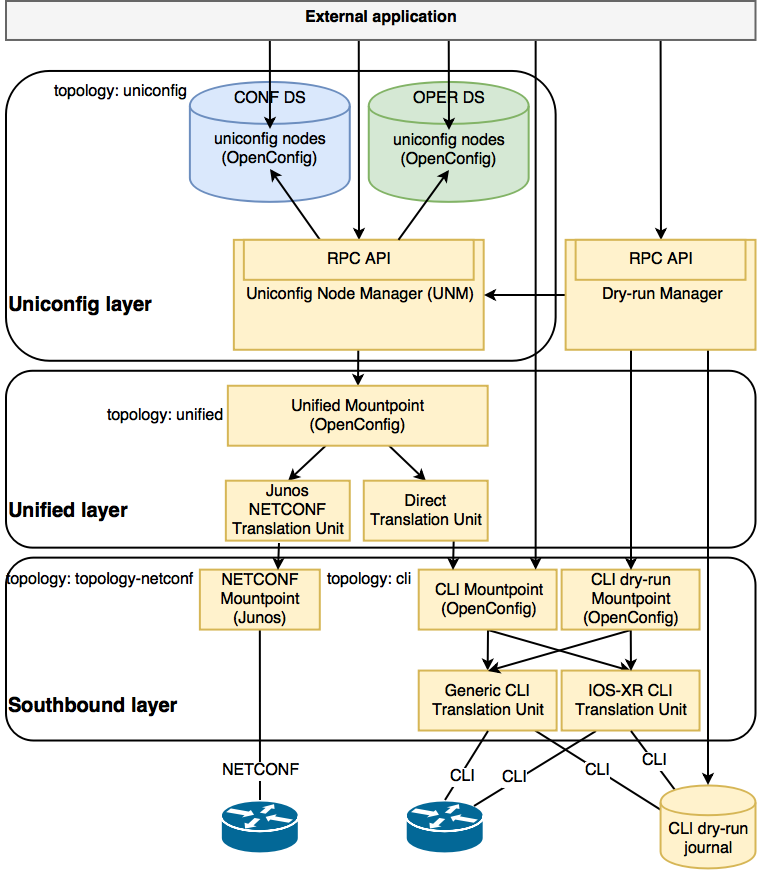
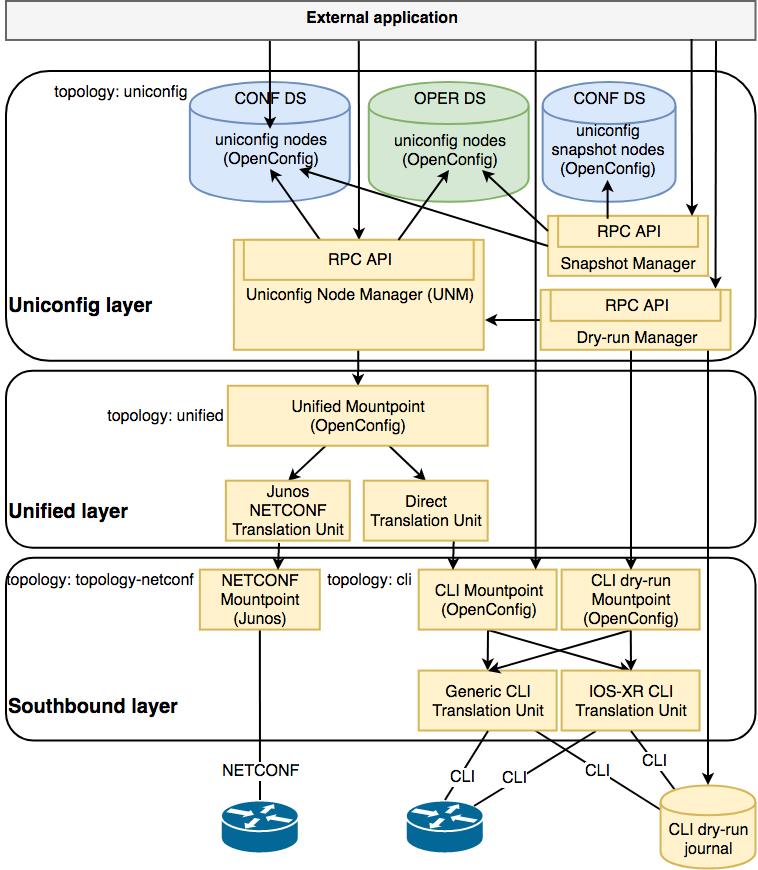
updated uniconfig architecture for 3.1.3

diff --git a/FRINX_ODL_Distribution/Carbon/FRINX_Features_User_Guide/uniconfig/architecture/architecture.md b/FRINX_ODL_Distribution/Carbon/FRINX_Features_User_Guide/uniconfig/architecture/architecture.md
@@ -12,6 +12,7 @@
         - [Direct Translation Unit](#direct-translation-unit)
         - [NETCONF Translation Unit](#netconf-translation-unit)
     - [Uniconfig Node Manager (UNM)](#uniconfig-node-manager-unm)
+    - [Snapshot Manager](#snapshot-manager)
     - [Dry-run Manager](#dry-run-manager)
 - [Components interactions](#components-interactions)
     - [NETCONF device configuration](#netconf-device-configuration)
@@ -64,27 +65,27 @@ Components are described from bottom to top.
 ## CLI Mountpoint
 The CLI mountpoint provides a management API for a network device over the CLI.
 OpenConfig models are used for structured data describing the device
-configuration and state.  
+configuration and state.
 
 The CLI mounpoint uses CLI translation units for translation between OpenConfig
-data and CLI data.  
+data and CLI data.
 
 The CLI mountpoint API supports device transactions and automatic
 rollback functionality (in case an error occurs during device configuration
 in device transaction). CLI mountpoint is registered under a node in cli
-topology.  
+topology.
 
 Each CLI mountpoint always includes a generic CLI translation unit which provides
 an RPC for sending raw CLI commands and returning raw CLI output.
 
 ### CLI Translation Units
-A CLI translation unit defines a mapping between YANG models and the CLI.  
+A CLI translation unit defines a mapping between YANG models and the CLI.
 
 It is used by the FRINX ODL controller to perform translation between
-device specific CLI data and standardized structured (OpenConfig YANG) data.  
+device specific CLI data and standardized structured (OpenConfig YANG) data.
 
 The translation unit can read and write configuration or read the state of a device.
-It uses the CLI over SSH or telnet for communication with the CLI device.  
+It uses the CLI over SSH or telnet for communication with the CLI device.
 
 Junos and IOS-XR translation units are just simplified examples.
 The CLI translation unit is usually created for a combination of device type
@@ -92,7 +93,7 @@ and OpenConfig main section (folder) e.g. xr-6-network-instance,
 xr-6-ospf, ios-local-routing, ios-ospf, etc.
 
 ## CLI dry-run Mountpoint
-the CLI dry-run mountpoint mocks the management API for a network device over CLI.
+The CLI dry-run mountpoint mocks the management API for a network device over CLI.
 It uses the CLI dry-run journal for storing to-be-executed CLI commands instead
 of configuring the network device directly. Just as with a regular CLI mountpoint,
 it uses the same set of CLI translation units and the same set of OpenConfig
@@ -126,7 +127,7 @@ OpenConfig available-capabilities.
 The NETCONF translation unit translates OpenConfig data to data described by
 device specific YANG models. It uses the NETCONF mountpoint for communication
 with a NETCONF device, and also implements device transaction
-with automatic rollback if it is not provided by the device.  
+with automatic rollback if it is not provided by the device.
 
 The Junos NETCONF translation unit is a simplified example. The NETCONF translation unit is
 usually created for a combination of device type and OpenConfig main
@@ -138,25 +139,32 @@ The responsibility of this component is to maintain configuration on devices
 based on intended configuration. Each device and its configuration is
 represented as a node in the uniconfig topology and the configuration of this node
 is described by using OpenConfig YANG models. The Northbound API of UNM is
-RPC driven and provides functionality for commit with automatic rollback,
-manual rollback and synchronization of configuration from the network.
+RPC driven and provides functionality for commit with automatic rollback
+and synchronization of configuration from the network.
 
 When a commit is called, the UNM creates a diff based on intended state from
 CONFIG DS and actual state from OPER DS. This Diff is used as the basis for device configuration.
-UNM prepares a network wide transaction which uses Unified mountpoints for communication with different types of devices.  
+UNM prepares a network wide transaction which uses Unified mountpoints for communication with different types of devices.
 
 In the case where the configuration of one device fails, the UNM executes automatic rollback
 where the previous configuration is restored on all modified devices.
 
-Manual rollback enables simple reconfiguration of the entire network
-using one of the previous states saved in the UNM.
-
 Synchronization from the network reads configuration from devices and stores
 it as an actual state to the OPER DS.
 
+## Snapshot Manager
+The snapshot manager creates and deletes uniconfig snapshots of
+actual uniconfig topology. Multiple snapshots can be created
+in the system.
+
+Snapshots may be used for manual rollback. Manual rollback enables simple
+reconfiguration of the entire network using one of the previous states
+saved in snapshots. That means that uniconfig nodes in config datastore
+are replaced with uniconfig snapshot nodes.
+
 ## Dry-run Manager
 The dry-run manager provides functionality for mock configuration of CLI devices where CLI
-commands are sent to the CLI dry-run journal instead of the device.  
+commands are sent to the CLI dry-run journal instead of the device.
 
 The dry-run manager uses Uniconfig Node Manager for getting the diff of the intended configuration and uses the CLI dry-run mounpoint for sending CLI commands to the dry-run journal.
 
@@ -164,9 +172,9 @@ The dry-run manager uses Uniconfig Node Manager for getting the diff of the inte
 The figures below show the interactions in UniConfig triggered by an external application.
 
 ## NETCONF device configuration
-UniConfig uses NETCONF for device configuration. An external application can also use the CLI RPC from the Generic CLI translation unit for direct communication.  
+UniConfig uses NETCONF for device configuration. An external application can also use the CLI RPC from the Generic CLI translation unit for direct communication.
 
-The device is firstly mounted as a node to *topology-netconf* and then to topology *cli*.  
+The device is firstly mounted as a node to *topology-netconf* and then to topology *cli*.
 
 ![unitopo_netconf-config](drawing/unitopo_netconf-config.png)
 
@@ -176,23 +184,23 @@ UniConfig uses CLI for device configuration. An external application can also us
 ![unitopo_cli-config](drawing/unitopo_cli-config.png)
 
 # Topologies
-The UniConfig framework uses various topologies on different layers.  
-Each topology contains nodes in the CONF and OPER datastores.  
+The UniConfig framework uses various topologies on different layers.
+Each topology contains nodes in the CONF and OPER datastores.
 
 ![topologies](drawing/topologies.png)
 
 ## CLI
-The cli topology contains nodes which are connected with ODL via the CLI.  
+The cli topology contains nodes which are connected with ODL via the CLI.
 
 A node in CONF DS contains information on how the FRINX ODL controller should connect
-to CLI devices (i.e. IP address, port, username, password, etc.) and a node in OPER DS contains the state of connection with available-capabilities.  
+to CLI devices (i.e. IP address, port, username, password, etc.) and a node in OPER DS contains the state of connection with available-capabilities.
 
 CLI mountpoints are registered under these nodes. Configuration and state on the device can be obtained from the mountpoint.
 
 ## NETCONF
 The topology-netconf topology contains nodes which are connected with FRINX ODL through
 NETCONF. A node in CONF DS contains information on how the FRINX ODL controller should connect
-to NETCONF devices (i.e. IP address, port, username, password, etc.) and a node in OPER DS contains the state of connection with available-capabilities.  
+to NETCONF devices (i.e. IP address, port, username, password, etc.) and a node in OPER DS contains the state of connection with available-capabilities.
 
 NETCONF mountpoints are registered under these nodes. Configuration and state on the device can be obtained from a mountpoint.
 
@@ -211,7 +219,7 @@ In the most simple deployment case, all applications run on a single node. This 
 
 ## Clustering
 Clustered deployment usually use 3 nodes. This deployment provides high availability
-(HA) because data is replicated on each node. 
+(HA) because data is replicated on each node.
 
 The UniConfig framework runs on all nodes but is only in active state on one and is in standby state on the other nodes. When an active node goes down or becomes unreachable to other
 nodes, one of the standby nodes becomes active. This deployment can handle only
